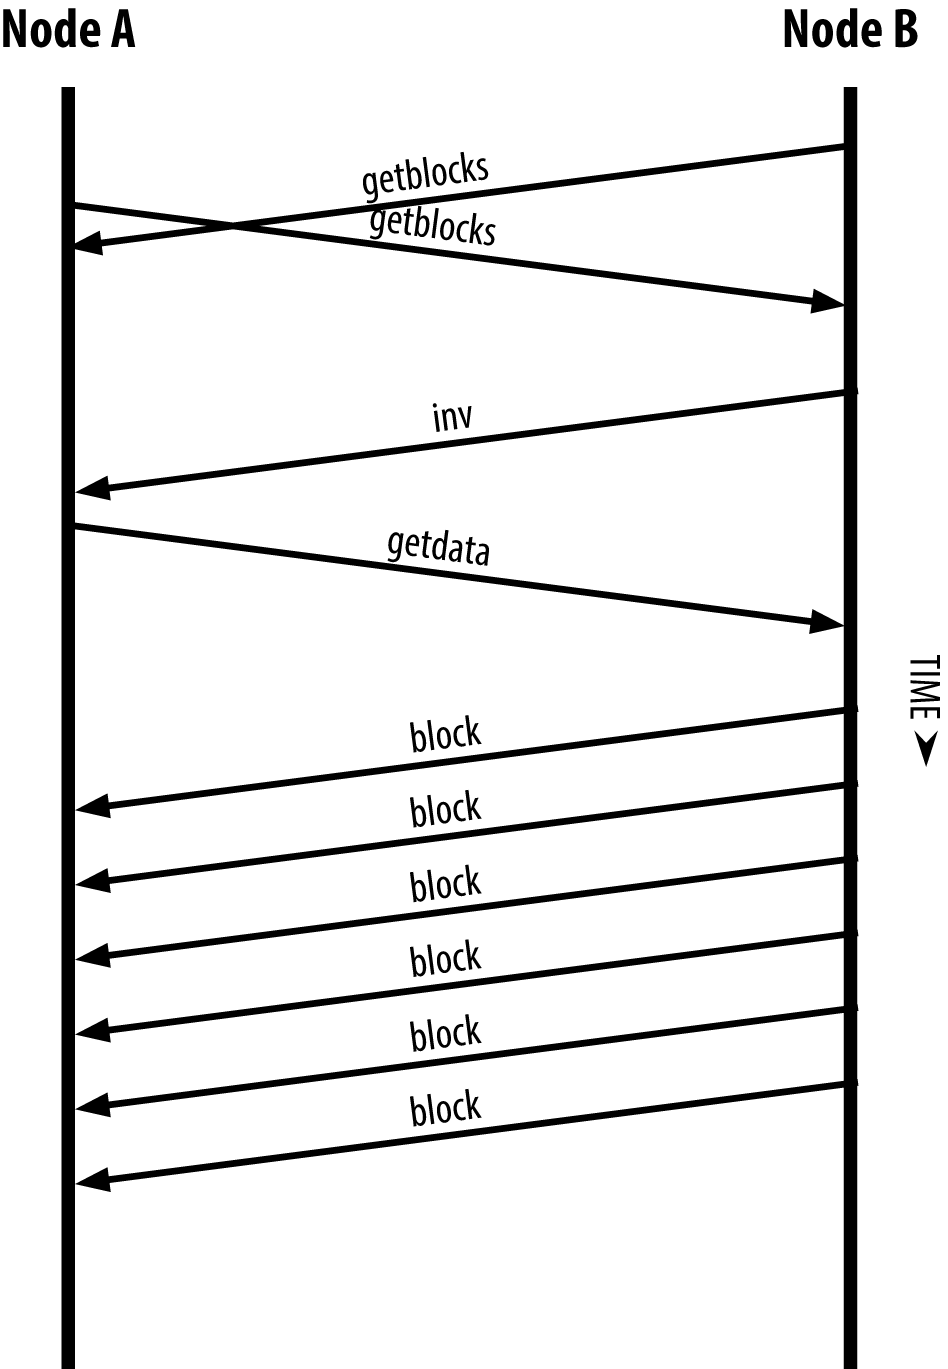
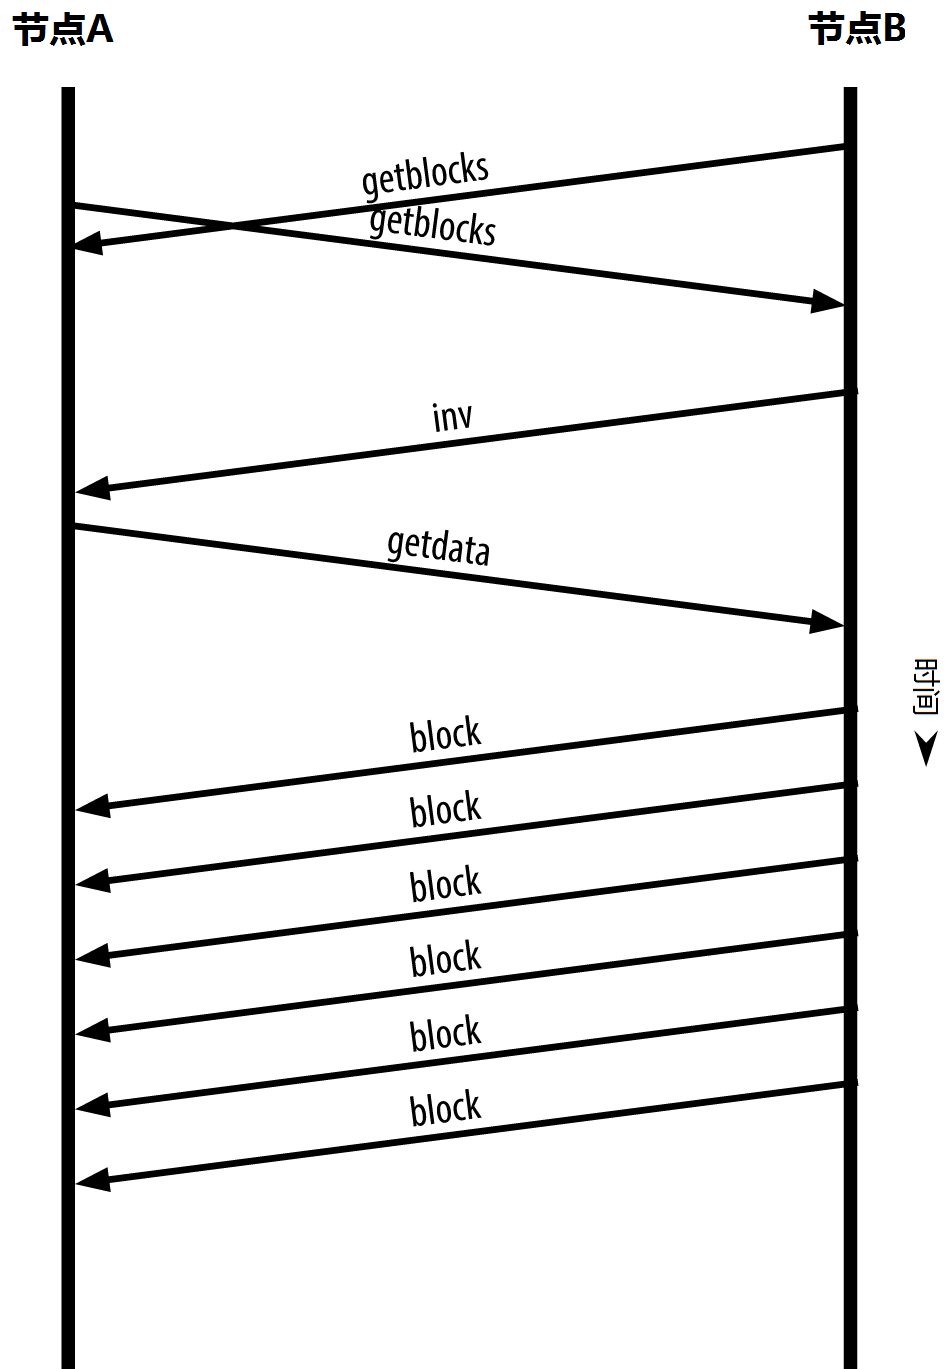
[*]第六章图形中文化

Changed region(s): [[0.8259, 0.0, 0.9789, 0.0307], [0.0, 0.0, 0.153, 0.0307], [0.9483, 0.4602, 1.0, 0.5215]]

diff --git a/mb/ch6.md b/mb/ch6.md
@@ -171,14 +171,14 @@
 
 ## 简单支付验证（SPV）节点
 
-不是所有节点都有能力存储完整区块链。很多比特币客户端是设计来在空间、性能均有限制的设备上运行的，比如智能电话，平板或嵌入式系统上运行的。对于这些设备来说，*简单支付验证（SPV）*方法可以保证它们在不保存全量区块链的情况下也能正常运行。这些类型的客户端称作SPV客户端或者轻量级客户端。随着比特币的使用越来越广泛，SPV节点已逐渐成为比特币节点的最常见形式，尤其是比特币钱包。
+不是所有节点都有能力存储完整区块链。很多比特币客户端是设计来在空间、性能均有限的设备上运行的，比如智能电话，平板或嵌入式系统上运行的。对于这些设备来说，*简单支付验证（SPV）*方法可以保证它们在不保存全量区块链的情况下也能正常运行。这些类型的客户端称作SPV客户端或者轻量级客户端。随着比特币的使用越来越广泛，SPV节点已逐渐成为比特币节点的最常见形式，尤其是比特币钱包。
 
 SPV节点只需要下载区块头，而不用下载每个区块中的交易。这种不带交易的区块链条，其大小比完全区块链小1000倍。SPV节点不能全景展示所有可花费UTXO的完整视图，因为它们并不了解网络上的所有交易。SPV节点使用一套稍有不同的方法验证交易，这种方法依赖于对等节点按需提供相关区块链的局部视图。
 
 
-作为类比，完全节点就像一个在陌生城市的游客，带了含有所有街道所有地址的详细地图。而SPV节点就像另一个同在陌生城市的游客，只知道一条主干道，通过随机询问陌生人来获知路线规划。虽然两个游客都能通过实地参观验证街道是否存在，但没有地图的游客不知道每个小巷中有些什么，也不知道附近还有什么其他街道。站在教堂街23号前，没有地图的游客无法知道这个城市是否还有其他“教堂街23号”的地址，也不知道这个地方是不是就是自己要找的一个。对于没有地图的游客，最好的办法就是询问足够多的人，并希望不会有人试图抢劫他。
+作为类比，完全节点就像一个处在陌生城市的游客，带了含有所有街道所有地址的详细地图。而SPV节点就像另一个同在陌生城市的游客，只知道一条主干道，通过随机询问陌生人来获知路线规划。虽然两个游客都能通过实地参观验证街道是否存在，但没有地图的游客不知道每个小巷中有些什么，也不知道附近还有什么其他街道。站在教堂街23号前，没有地图的游客无法知道这个城市是否还有其他“教堂街23号”的地址，也不知道这个地方是不是就是自己要找的一个。对于没有地图的游客，最好的办法就是询问足够多的人，并希望不会有人试图抢劫他。
 
-简单支付验证通过引用交易在区块链中的*深度（depth）*而不是它们的*高度（height）*来验证交易。而完全区块链节点则创建一个完整的验证过的链条，这条链是由区块和交易组成，并按时间倒序一直追溯到创世区块。而一个SPV节点会验证所有区块的链（但不是所有的交易），并且把链和有关感兴趣的交易进行关联。
+简单支付验证通过引用交易在区块链中的*深度（depth）*而不是它们的*高度（height）*来验证交易。而完全区块链节点则创建一个完整的验证过的区块链，这条链由区块和交易组成，并按时间倒序一直追溯到创世区块。而一个SPV节点会验证所有区块的链（但不是所有的交易），并且把链和有关感兴趣的交易进行关联。
 
 比如，当检查区块300,000中的某个交易时，一个完全节点将300,000个区块一直往前连接到创世区块，构建了一个UTXO的完整数据库，通过确认UTXO未被花费，确立交易的有效性。SPV节点无法确定UTXO是否未被花费。相反，SPV节点则利用*墨克尔路径*（参看第164页《默克尔树》）建立起交易和包含这笔交易的区块间的关联关系。接着，SPV节点一直等到序号从300,001到300,006的六个区块堆叠在该交易所在的区块之上，并通过确定交易的深度是在第300,006区块到第300,001区块之下来验证交易的有效性。事实上，网络上的其他节点接受了区块300,000，并在其上创建了额外的6个区块，根据代理协议，可以证明交易不是一个双重支付交易。
 
